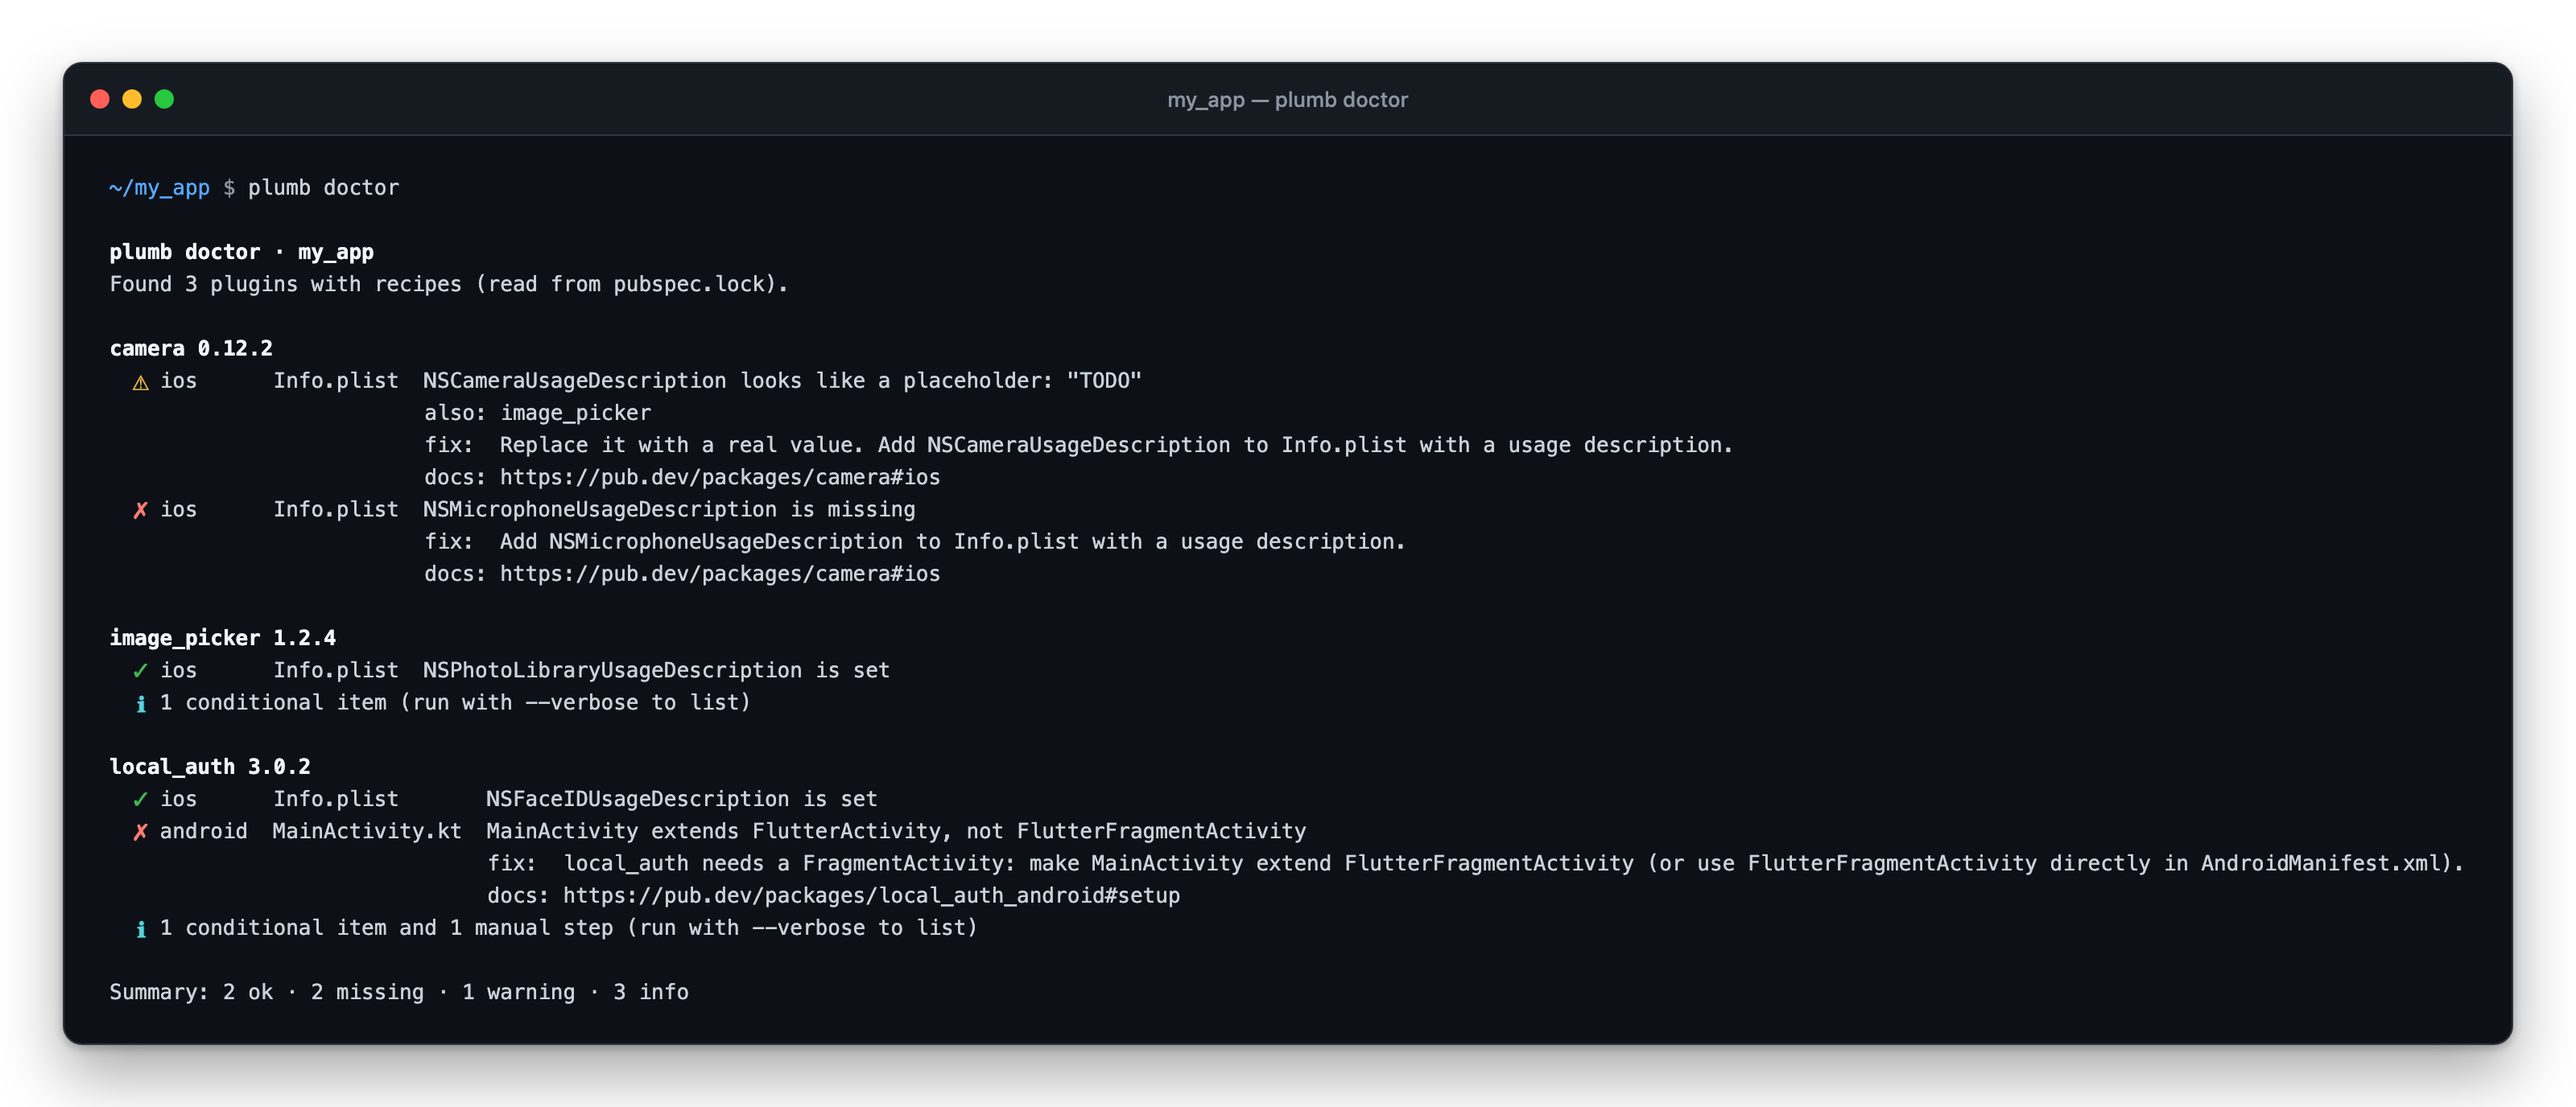
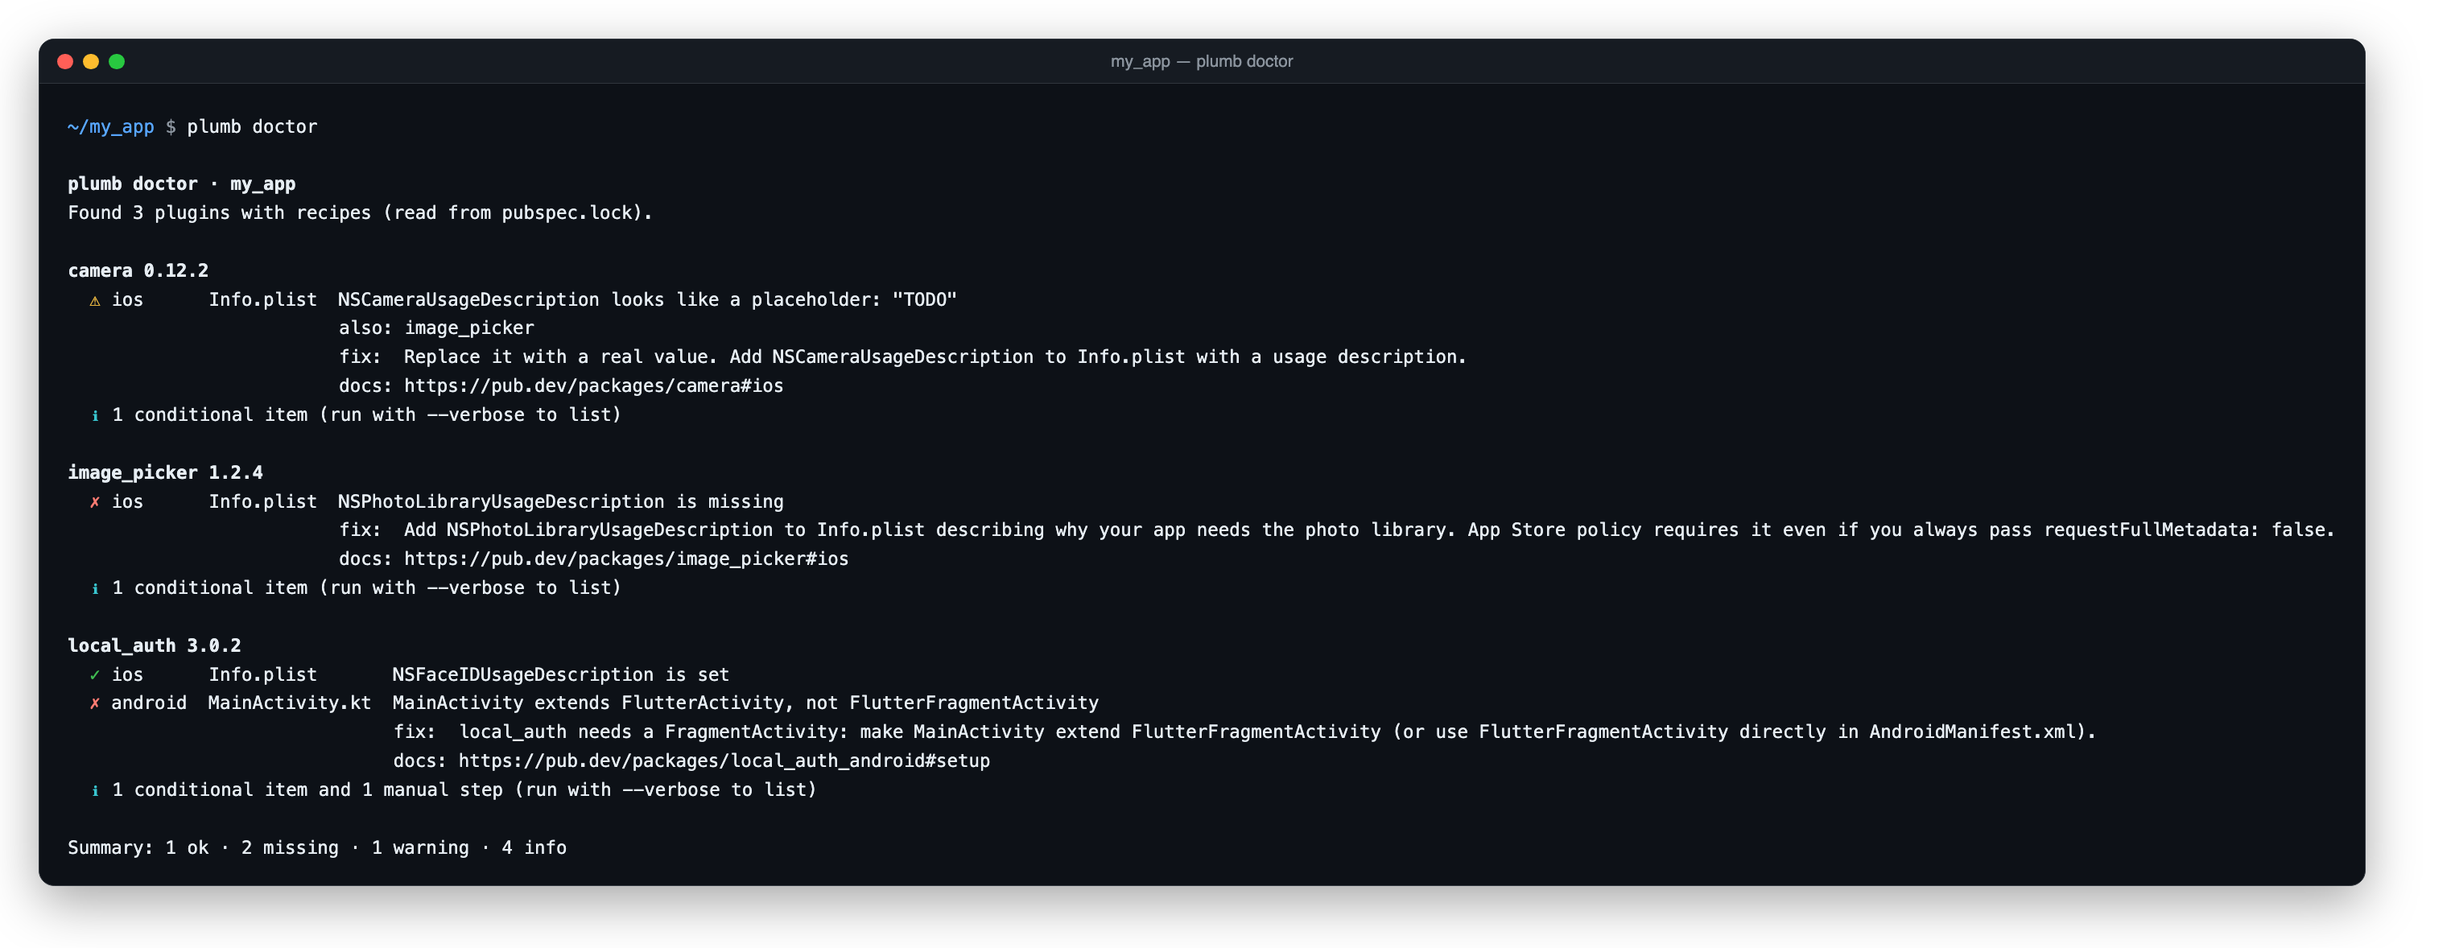
docs: refresh the README screenshot and JSON example
The old ones showed camera's microphone key as missing, which plumb no
longer reports. Both now come from a sample app with a placeholder
camera string, a missing photo library string and the wrong
MainActivity base class.

Changed region(s): [[0.0, 0.0306, 0.9967, 0.9779], [0.4672, 0.489, 0.5295, 0.5195]]

diff --git a/README.md b/README.md
@@ -3,7 +3,7 @@
 **Find the missing iOS and Android setup that your Flutter plugins need, before
 it crashes your app or gets it rejected from the App Store.**
 
-![plumb doctor output: a placeholder camera purpose string, a missing microphone string and the wrong MainActivity base class, each with a fix and a docs link](https://raw.githubusercontent.com/UmeshRaj7/plumb/main/assets/plumb-doctor.png)
+![plumb doctor output: a placeholder camera purpose string, a missing photo library purpose string and the wrong MainActivity base class, each with a fix and a docs link](https://raw.githubusercontent.com/UmeshRaj7/plumb/main/assets/plumb-doctor.png)
 
 ```sh
 dart pub global activate plumb
@@ -200,19 +200,19 @@ additive) with no absolute paths or timestamps:
   "plumb_version": "0.0.1",
   "project": { "name": "my_app", "dependency_source": "pubspec.lock" },
   "packages": [
-    { "name": "camera", "version": "0.12.2", "status": "checked", "recipe": "recipes/camera.yaml" }
+    { "name": "image_picker", "version": "1.2.4", "status": "checked", "recipe": "recipes/image_picker.yaml" }
   ],
   "findings": [
     {
-      "id": "camera/ios/info_plist/NSMicrophoneUsageDescription",
+      "id": "image_picker/ios/info_plist/NSPhotoLibraryUsageDescription",
       "severity": "missing",
-      "package": "camera",
+      "package": "image_picker",
       "platform": "ios",
       "file": "ios/Runner/Info.plist",
-      "key": "NSMicrophoneUsageDescription",
-      "message": "NSMicrophoneUsageDescription is missing",
-      "fix": "Add NSMicrophoneUsageDescription to Info.plist with a usage description.",
-      "source": "https://pub.dev/packages/camera#ios",
+      "key": "NSPhotoLibraryUsageDescription",
+      "message": "NSPhotoLibraryUsageDescription is missing",
+      "fix": "Add NSPhotoLibraryUsageDescription to Info.plist describing why your app needs the photo library. App Store policy requires it even if you always pass requestFullMetadata: false.",
+      "source": "https://pub.dev/packages/image_picker#ios",
       "also_needed_by": []
     }
   ],
